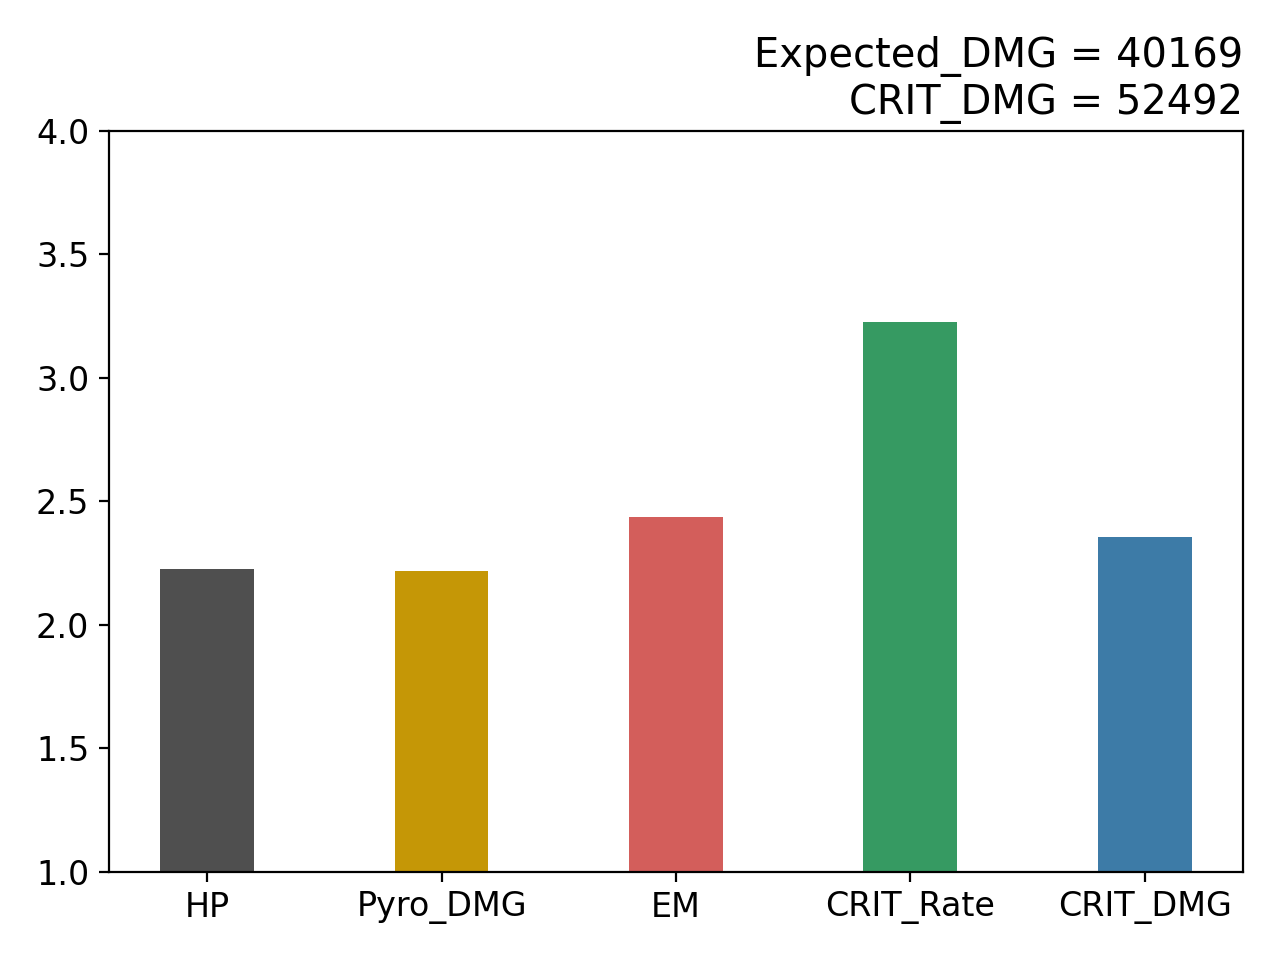
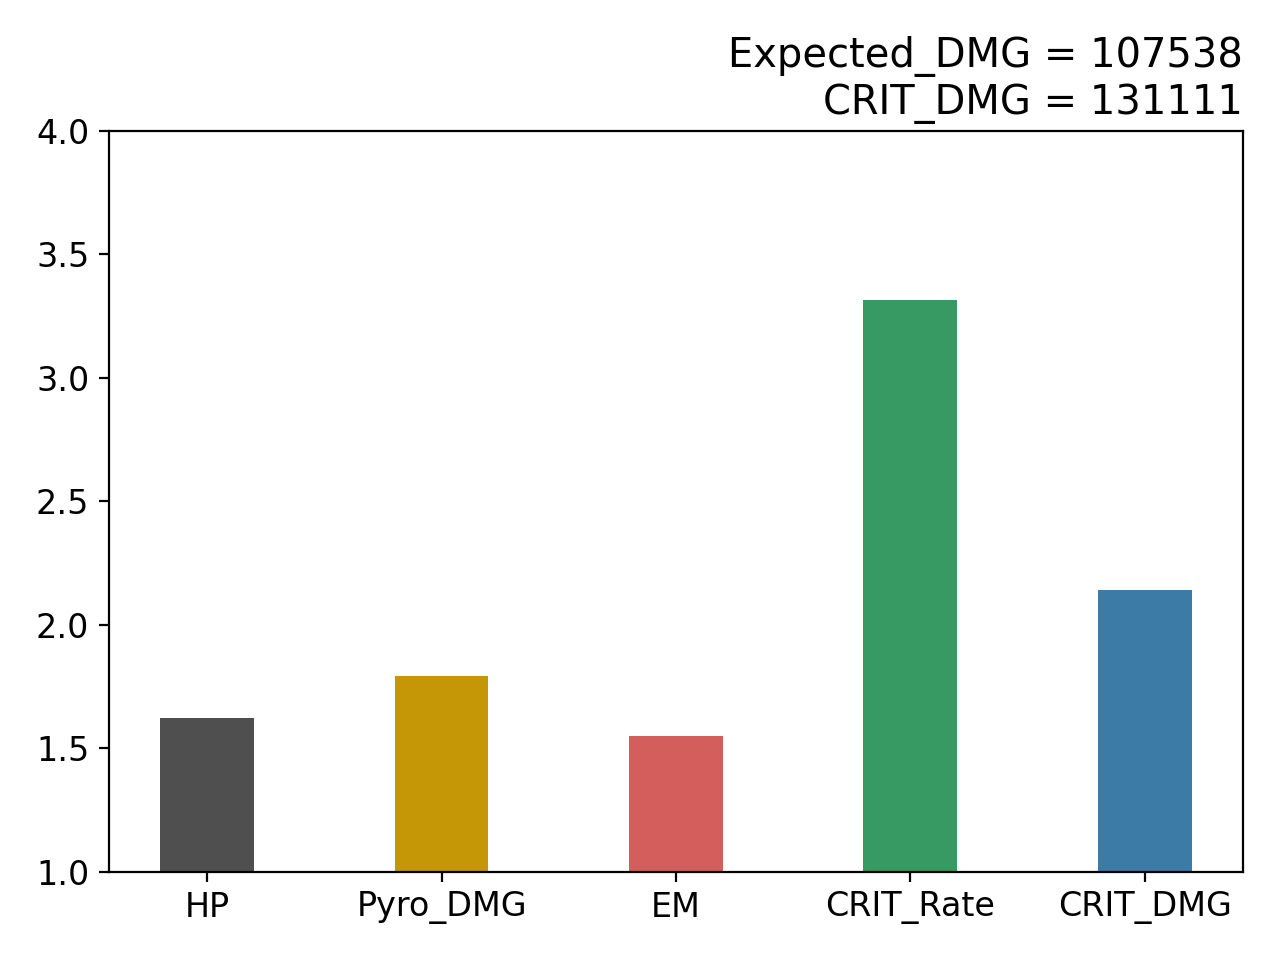
HuTao heihei

diff --git a/genshinDMG/FunctionDMG.py b/genshinDMG/FunctionDMG.py
@@ -268,6 +268,8 @@ def HuTao_balance():
     DMG_Rate_CRIT = ((1 + (CRIT_Rate+3.9)/100 * (CRIT_DMG)/100) / (1 + CRIT_Rate/100 * CRIT_DMG/100) -1) * 100
     if CRIT_Rate > 96.1:
         DMG_Rate_CRIT = ((1 + CRIT_DMG/100) / (1 + CRIT_Rate/100 * CRIT_DMG/100) -1) * 100
+    if CRIT_Rate > 100:
+        CRIT_Rate = 100
 
     #========爆伤收益==========
     DMG_Rate_CRITDMG = ((1 + CRIT_Rate/100 * (CRIT_DMG+7.8)/100) / (1 + CRIT_Rate/100 * CRIT_DMG/100) -1) * 100
@@ -283,8 +285,10 @@ def HuTao_balance():
     DMG_Rate_EM = ((25*(EM+23)/(9*(EM+23+1400))+1)/(25*EM/(9*(EM+1400))+1) - 1) * 100 
 
     #=========期望伤害========= 
-    DMG = ATK * (1 + Pyro_DMG/100) * (1 + CRIT_Rate/100 * CRIT_DMG/100) * 1.5 * (1 + 25*EM/(9*(EM+1400)+1)) * 2.426 * 0.45
+    DMG = ATK * (1 + Pyro_DMG/100) * (1 + CRIT_Rate/100 * CRIT_DMG/100) * 1.5 * (1 + 25*EM/(9*(EM+1400)+1)) * 2.426 * 0.45 
+
     After_CRIT_DMG = ATK * (1 + Pyro_DMG/100) * (1 + CRIT_DMG/100) * 1.5 * (1 + 25*EM/(9*(EM+1400)+1)) * 2.426 * 0.45
+
     Profit = [DMG_Rate_HP, DMG_Rate_Pyro, DMG_Rate_EM, DMG_Rate_CRIT, DMG_Rate_CRITDMG]
 
     #=========画图=========
@@ -305,7 +309,7 @@ def HuTao_balance():
 def main():
     # HuTao()
     HuTao_balance()
-    
+
     # Basic_ATK = int(input("请输入人物基础攻击力："))
     # GenOrNot = float(input("若计算通用情况，请输入0.0; 若计算夜兰, 请输入1.0; 若计算冰套双冰永动体系，请输入面板暴击率："))
     
